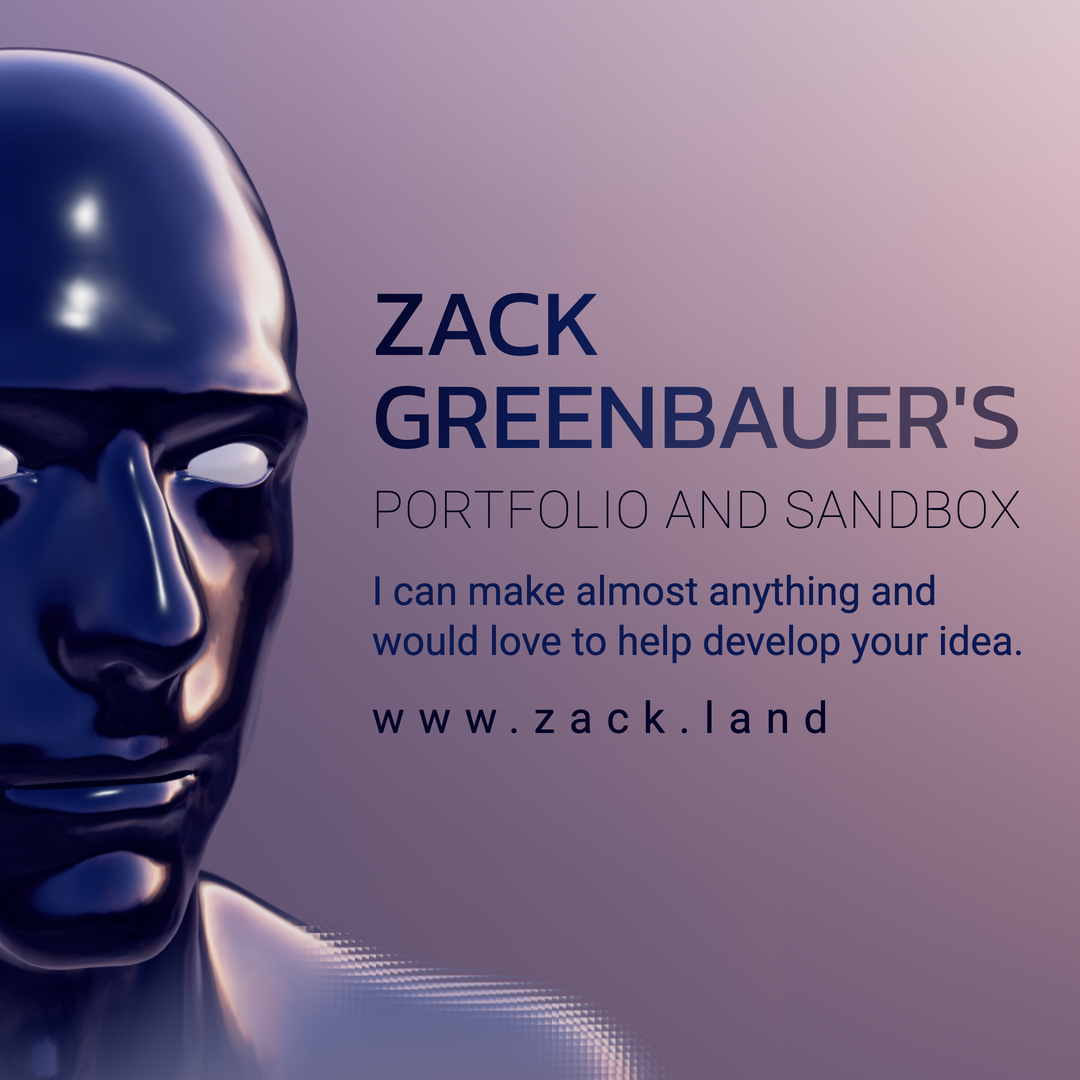
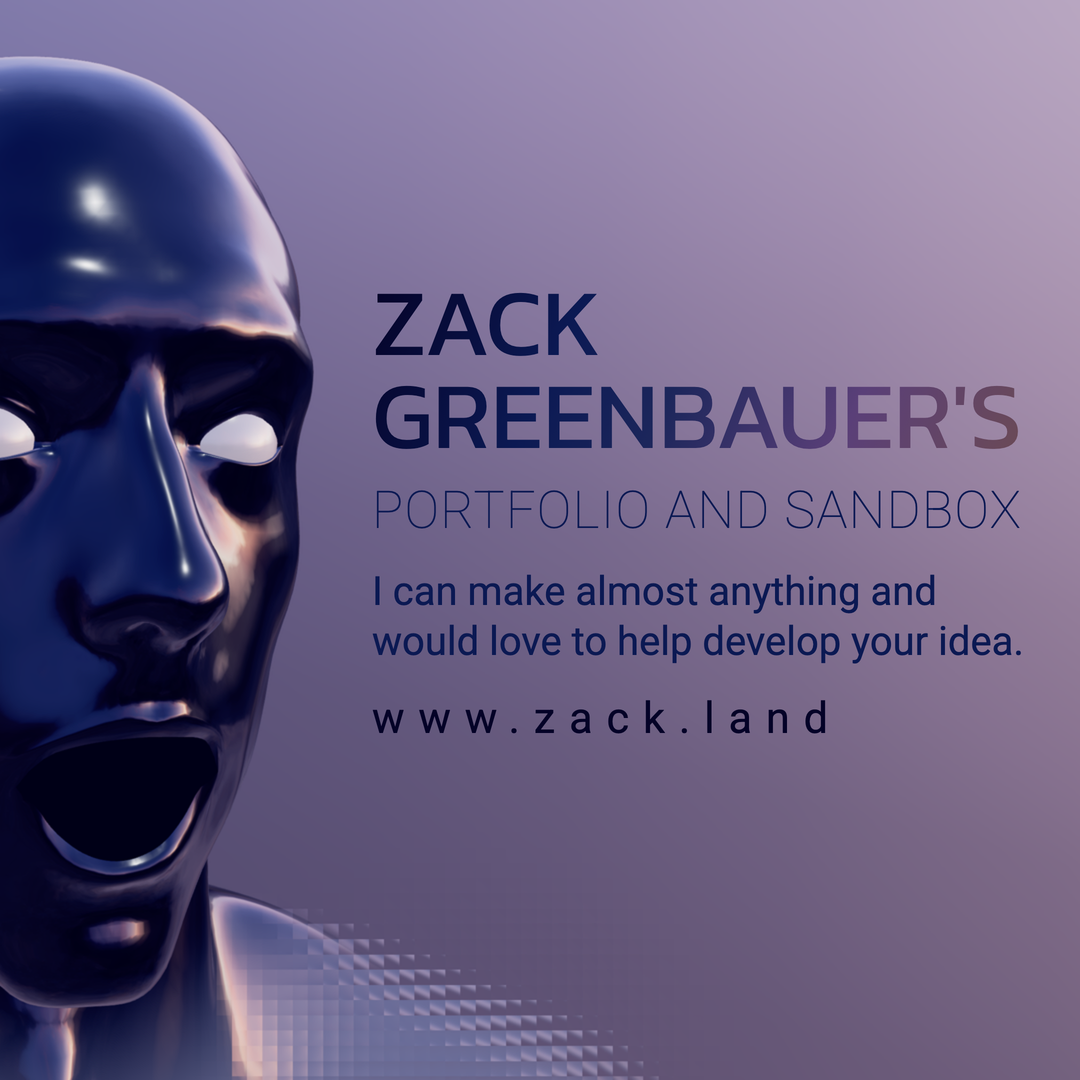
feat(brand): social images surprised, freshly rendered from the live head
The link preview, square, LinkedIn banner and X header now show the head
from master wearing the greeting's surprise (the gasp), rendered on the
GPU with each image's old sky turn and framing. LinkedIn and X take the
new text style: the name as the headline, "Portfolio and Sandbox" set as
the site's h2, the tagline smaller, the domain widely spaced; light text
on LinkedIn's dark sky, as the site picks.

Not test-worthy: image assets and docs only.

diff --git a/public/brand/README.md b/public/brand/README.md
@@ -26,18 +26,23 @@ The dawn palette (`theme/head.json`):
   sky, light tones (light to rose) on a dark one. No shadows.
 - **Domain is always written `www.zack.land`**, lowercase and widely spaced, as
   the site sets it.
-- **The head** faces right of the camera with a neutral face, and a strip of the
-  site's glass lies over the shoulders only, never the face.
-- **Share images** (`og-image.png` and `instagram-1080x1080.png`) are read at
-  about a third of their size, so their text is set large: the name as the
-  headline, "Zack" over "Greenbauer's"; "Portfolio and Sandbox" under it; the
-  tagline smaller; then the domain. The name shades corner to corner from navy
-  through indigo, blue and a violet to a darkened rose, each stop darkened to
-  hold 3:1 on the image's sky. The subtitle is set as the site's (Roboto Thin,
-  uppercase, slightly spaced) in one theme colour: the lightest that reaches
-  4.5:1 on the sky, as the home page picks it. The tagline and domain are in
-  Roboto regular, as light is too thin at that size. The square shows only the
-  head's right half, its sky carried on to the right, to give the text room.
+- **The head** faces right of the camera, and a strip of the site's glass lies
+  over the shoulders only, never the face. On the social images (link preview,
+  square, LinkedIn, X) it wears the greeting's surprise: the gasp, at full
+  strength (`components/Background/idleGreeting.ts`); the icons keep a neutral
+  face.
+- **Social image text** is read at about a third of its size, so it is set
+  large: the name as the headline ("Zack" over "Greenbauer's" on the link
+  preview and square, one line on the banners); "Portfolio and Sandbox" under
+  it; the tagline smaller; then the domain. Over a light sky the name shades
+  corner to corner from navy through indigo, blue and a violet to a darkened
+  rose; over LinkedIn's dark one, from light to peach. Each stop is darkened (or
+  lightened) to hold 3:1 on the sky. The subtitle is set as the site's (Roboto
+  Thin, uppercase, slightly spaced) in one theme colour, the lightest (or, on a
+  dark sky, the theme's light) that reaches 4.5:1 on the sky, as the home page
+  picks it. The tagline and domain are in Roboto regular, as light is too thin
+  at that size. The square shows only the head's right half, to give the text
+  room.
 
 ## Assets
 
@@ -55,7 +60,10 @@ The dawn palette (`theme/head.json`):
 > eye, closer than the app icons, so the face still reads at tab size.
 
 Each social image has its own part of the dawn sky: lilac to blush (link
-preview), a pink to purple sweep (LinkedIn), warm cream (X) and mauve (square).
+preview), a pink to purple sweep (LinkedIn), warm cream (X) and lavender
+(square). The sky turns used (`components/Background/skyViews.ts`; x tips, y turns):
+link preview `{ x: -0.8, y: 2.36 }` (the first light station), LinkedIn
+`{ x: 0.4, y: -2.84 }`, X `{ x: 0, y: 1.84 }`, square `{ x: 0.2, y: 0.8 }`.
 
 ## Regenerating
 
@@ -65,9 +73,18 @@ it turns right without squinting or raising its brows), the sky held at a fixed
 turn per image (`scene.backgroundRotation` and `scene.environmentRotation`, as
 `components/Background/Sky.tsx` sets them), the title, subtitle, tagline and
 domain placed over it, and a glass card (any `section`) laid over the shoulders.
-The share images' text was later reset on the same renders: the old text was
-painted out with a smooth fit of the sky around it, and the head and glass were
-left as rendered. The render scripts are not kept in the repository.
+
+The social images were last rendered from `master` in a separate checkout with
+three local changes that were never committed: the 3D name left out of
+`components/Background/index.tsx`, the sky held at a turn (`stationFor` in
+`skyViews.ts` returning that turn with no reach), and the face held at given
+strengths (the morph influences in `MyHead.tsx`, neck shapes kept). Chromium ran
+headless with the Mac's GPU (`--headless=new --use-angle=metal`). Software GL
+(swiftshader) draws the head blocky at a quarter of the pixels, so it is not
+fit for these. The frosted glass fades out about 80 to 110 CSS pixels past its
+card's edge, so the card sits that far below where the glass should start. Each
+render was made larger than the image and cropped so the head sits where the old
+image had it. The render scripts are not kept in the repository.
 
 ## Link previews (wired in `app/layout.tsx`)
 
